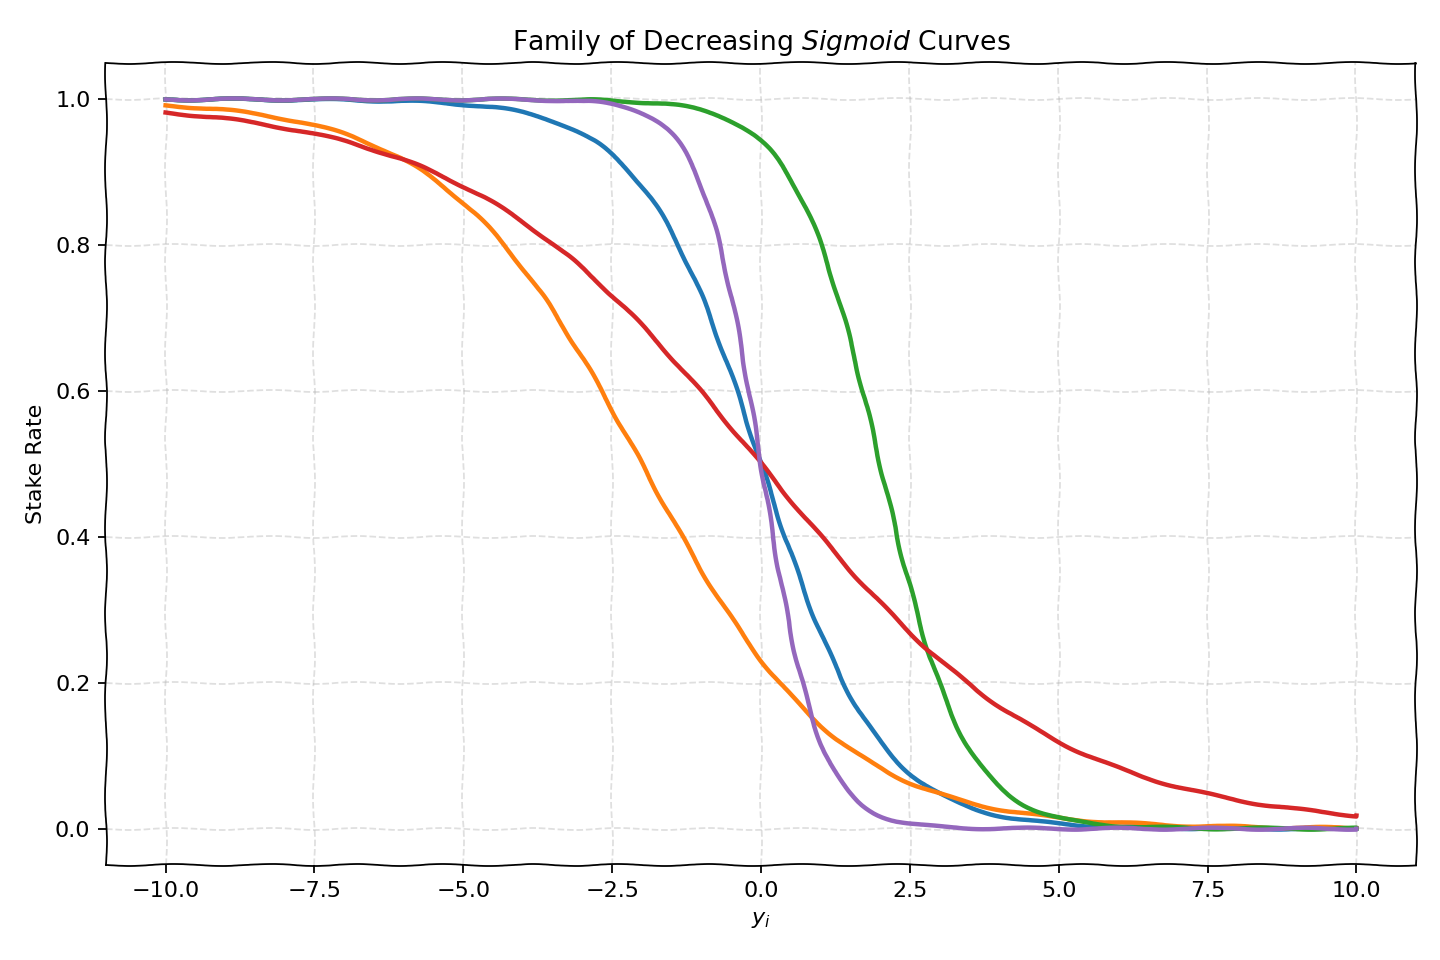
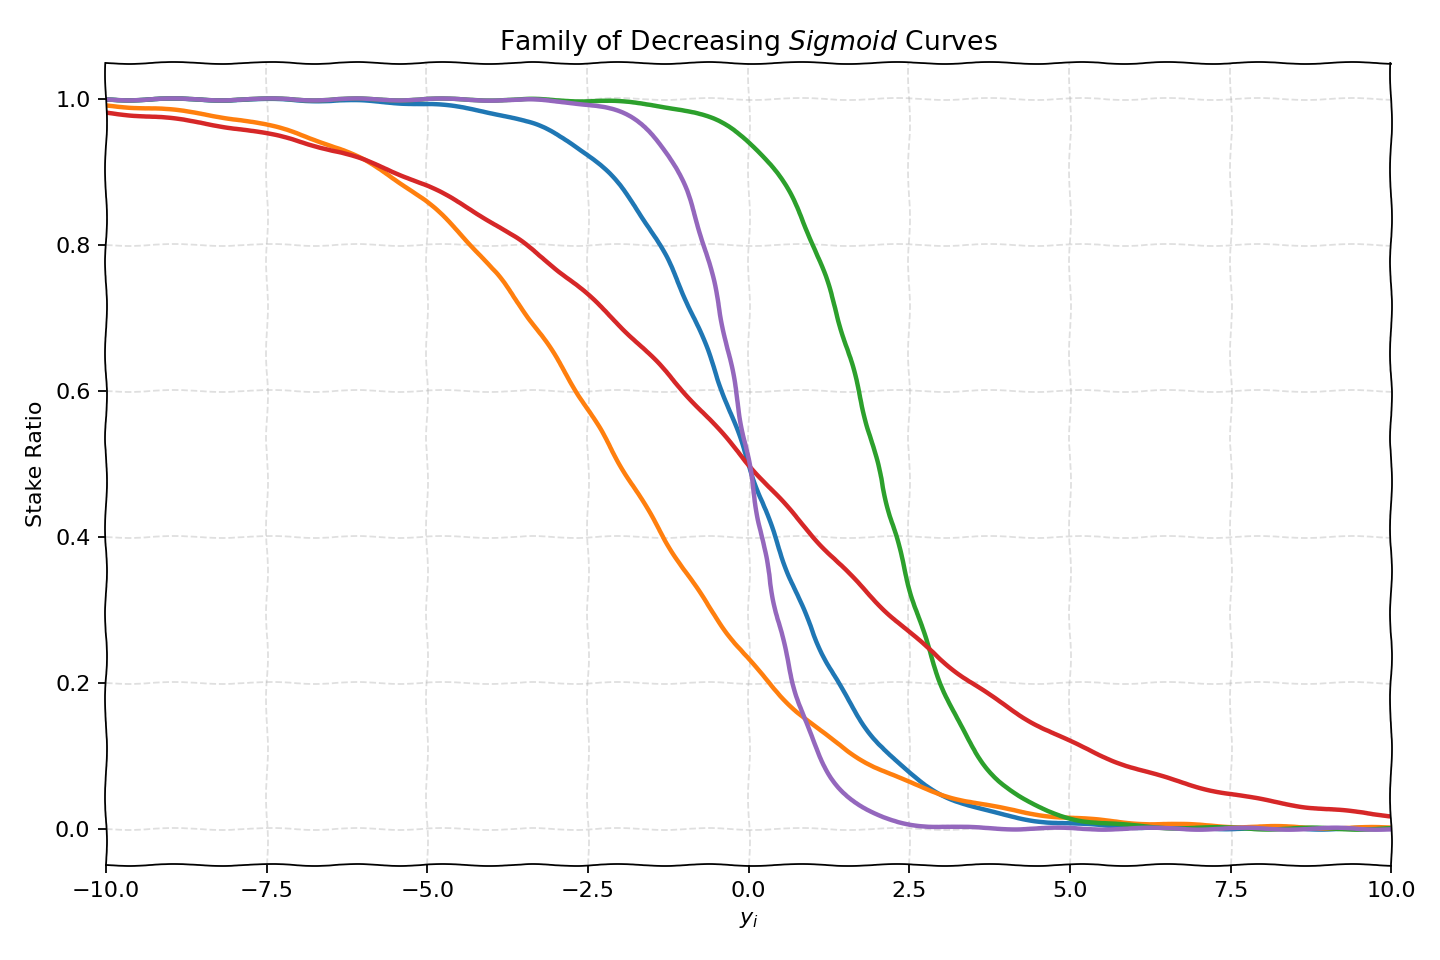
fix limits

diff --git a/plots/figures/decreasing_sigmoids.py b/plots/figures/decreasing_sigmoids.py
@@ -16,7 +16,7 @@ param_sets = [
     (0.0, 2.0),
 ]
 
-x = np.linspace(-10, 10, 800)
+x = np.linspace(-20, 20, 2000)
 
 plt.figure(figsize=(9, 6))
 for (x0, k) in param_sets:
@@ -24,8 +24,9 @@ for (x0, k) in param_sets:
     plt.plot(x, y, linewidth=2.0, )
 
 plt.ylim(-0.05, 1.05)
+plt.xlim(-10, 10)
 plt.xlabel(r"$y_i$")
-plt.ylabel(r"Stake Rate")
+plt.ylabel(r"Stake Ratio")
 plt.title(r"Family of Decreasing $\mathit{Sigmoid}$ Curves")
 plt.grid(True, linestyle="--", alpha=0.4)
 plt.tight_layout()

diff --git a/plots/figures/logit.py b/plots/figures/logit.py
@@ -16,7 +16,7 @@ param_sets = [
     (0.0, 2.0),
 ]
 
-x = np.linspace(-10, 10, 800)
+x = np.linspace(-20, 20, 2000)
 
 plt.figure(figsize=(9, 6))
 for (x0, k) in param_sets:
@@ -24,7 +24,8 @@ for (x0, k) in param_sets:
     plt.plot(y, x, linewidth=2.0, )
 
 plt.xlim(0, 1)
-plt.xlabel(r"Stake Rate")
+plt.ylim(-10, 10)
+plt.xlabel(r"Stake Ratio")
 plt.ylabel(r"$y_i$")
 plt.title(r"Family of Issuance Yield Curves")
 plt.grid(True, linestyle="--", alpha=0.4)
